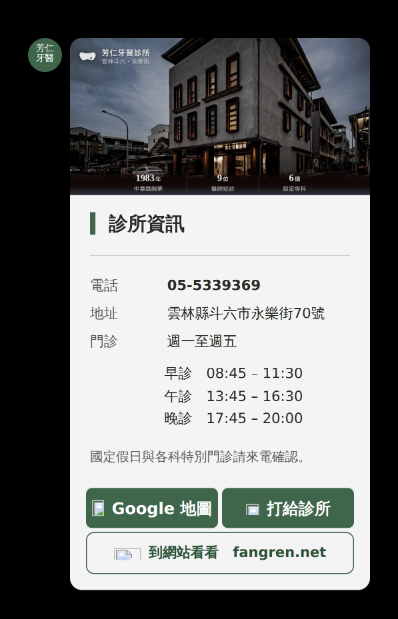
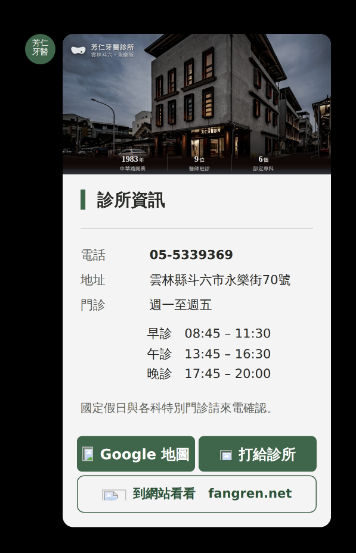
整合頁：行政那兩張拿掉，並修掉 width:auto 讓五張圖畫成原始像素尺寸
使用者：「預約協議 掛號文件費用 拿掉／另外有幾則我用手機打開來看
顯示比例怪怪的 很巨大」。

・width:auto 會蓋掉 <img> 的 width 屬性，圖退回原始像素尺寸 ——
  shot-query 855 → 2565、shot-cancel-chat 402 → 1206（3× 拍的整整大三倍）。
  壞的不只新加的那三張，前一天就在頁上的兩張也一起壞了。
  每一道既有的守門都過（屬性寫對、對得上實檔、水平溢出 0），
  只有把 getBoundingClientRect().width 印出來才看得到。
・修法：.pv-scroll img 只留 max-width:none，捲軸裡每一張各自寫 inline
  style="width:NNNpx"。守門新增兩道，負向測過都擋得下來。
・順手把那三張的卡片從 300px 縮到 268px（oa-shots.mjs 的 CARD = 268/300）
  —— flex-preview 畫的是 mega bubble 300，整合頁其餘十四張都是 268。
・行政那兩張拿掉；admin-carousel-d.json 與它的預覽都留著沒刪。

八個寬度：17 張圖全部畫在自己宣告的尺寸上、水平溢出 0、JS 錯 0。

Claude-Session: https://claude.ai/code/session_01B6APrgGivrFrWH65LPmYi6

diff --git a/preview/line-spec/index.html b/preview/line-spec/index.html
@@ -20,6 +20,8 @@
        這一頁從「整包規格」變成「**模擬圖的總覽 ＋ 入口**」。
      ⚠ 只留下兩處一行的提醒（⑦ 先不要送、⑤ 日期正在被截斷）：
        那兩件是**現在就會出事**的，不是解說。
+     ⚠ 2026-09-07 稍晚：**行政那兩張（預約協議／掛號與文件費用）使用者指定拿掉**，
+       所以 ⑪ 只剩衛教那一條輪播。`drafts/line-oa/admin-carousel-d.json` 與它的預覽都留著沒刪。
 
   ⚠⚠ **這一頁不重抄任何一則的文字。**
      每一則的字有它自己的出處（Flex 的 JSON、或 auto-reply.txt），
@@ -28,7 +30,7 @@
      ⚠ 圖是那幾頁的產出檔，**那幾頁改了就要重跑各自的 *-png.mjs**，不然這一頁的圖會開始說謊。
 
   ⚠ 圖一律寫 width/height 屬性（不寫的話沒載完之前高度是 0，整頁會跳版），
-     第一張以外一律 loading="lazy" —— 全部加起來約 4.6MB，而 Worker 對 /preview/* 設 no-store。
+     第一張以外一律 loading="lazy" —— 全部加起來約 3.5MB，而 Worker 對 /preview/* 設 no-store。
   ⚠ class 一律 pv- 前綴；樣式放在 head。
   ⚠ 連結一律相對路徑（../line-welcome/ 這種），不要用根目錄絕對路徑 ——
      舊站 yclee86.github.io 還活著，那邊會壞（CLAUDE.md 第九節）。
@@ -72,10 +74,16 @@ code{font-size:.94em;background:var(--paper);border-radius:4px;padding:0 3px;
   border-radius:9px;box-shadow:0 1px 3px rgba(0,0,0,.12)}
 .pv-shot img.narrow{width:204px}
 .pv-shot img.plain{box-shadow:none;border-radius:0}
-/* 比卡片寬的（輪播、七科攤成格狀那幾張）自己一條捲軸，
-   不要讓整頁能左右拉。寬度交給 img 的 width 屬性，這裡只把 CSS 的寬度讓開。 */
+/* 比卡片寬的（輪播、七科攤成格狀那幾張）自己一條捲軸，不要讓整頁能左右拉。
+   ⚠⚠⚠ 這裡**每一張都要自己寫 inline 的 `width:NNNpx`**，
+   而且要等於它的 `width` 屬性 —— 2026-09-07 踩過：原本寫 `width:auto`，
+   而 **`width:auto` 會蓋掉 `<img>` 的 width 屬性、讓圖退回「原始像素尺寸」**，
+   3× 拍的那幾張因此畫成三倍大（`shot-query` 855 → 2565）。
+   症狀是「手機上有幾張特別巨大」，**版面沒有破、水平溢出仍然是 0**，
+   只有把每一張的 `getBoundingClientRect().width` 印出來才看得到。
+   `check-spec.mjs` 現在有兩道在守這件事。 */
 .pv-scroll{width:100%;overflow-x:auto;-webkit-overflow-scrolling:touch}
-.pv-scroll img{width:auto;max-width:none}
+.pv-scroll img{max-width:none}
 .pv-cap{font-size:.7rem;color:var(--ink-soft);line-height:1.7;margin:0}
 .pv-cap b{color:var(--ink)}
 .pv-cap .n{color:var(--red);font-weight:700}
@@ -114,7 +122,7 @@ code{font-size:.94em;background:var(--paper);border-radius:4px;padding:0 3px;
     <div class="sep">圖文選單點下去回的卡</div>
     <a href="#m9">⑨ 診所資訊</a>
     <a href="#m10">⑩ 主題與科別　<span class="n">七科輪播</span></a>
-    <a href="#m11">⑪ 衛教懶人包　<span class="n">十張 ＋ 行政兩張</span></a>
+    <a href="#m11">⑪ 衛教懶人包　<span class="n">十張 ＋ 收尾一格</span></a>
   </div>
 
   <!-- ================= ① 招呼圖卡 ================= -->
@@ -161,7 +169,7 @@ code{font-size:.94em;background:var(--paper);border-radius:4px;padding:0 3px;
       alt="預約成功通知（單張）">
     <p class="pv-cap">↑ 預約成功（約診成立的當下，單張）。</p>
     <div class="pv-scroll">
-      <img src="../line-booked/shot-query.png" width="855" height="122" loading="lazy"
+      <img src="../line-booked/shot-query.png" width="855" height="122" style="width:855px" loading="lazy"
         alt="約診紀錄查詢的輪播，三張卡並排">
     </div>
     <p class="pv-cap">↑ 約診紀錄查詢（<b>輪播</b>，一個約診一張，可以左右滑）。
@@ -190,7 +198,7 @@ code{font-size:.94em;background:var(--paper);border-radius:4px;padding:0 3px;
   </div>
   <div class="pv-shot">
     <div class="pv-scroll">
-      <img src="../line-cancel/shot-cancel-chat.png" width="402" height="591" loading="lazy"
+      <img src="../line-cancel/shot-cancel-chat.png" width="402" height="591" style="width:402px" loading="lazy"
         alt="取消那一段對話在 LINE 聊天室裡的樣子">
     </div>
     <p class="pv-cap">↑ 整段對話在聊天室裡的樣子。</p>
@@ -228,7 +236,7 @@ code{font-size:.94em;background:var(--paper);border-radius:4px;padding:0 3px;
     <span class="t">圖文選單第一格</span></h2>
   <div class="pv-shot">
     <div class="pv-scroll">
-      <img src="shot-oa-clinic.png" class="plain" width="398" height="619" loading="lazy"
+      <img src="shot-oa-clinic.png" class="plain" width="356" height="553" style="width:356px" loading="lazy"
         alt="診所資訊卡：診所夜景頭圖、電話地址門診時間，以及三顆按鈕">
     </div>
     <p class="pv-cap">↑ 電話、地址、門診時間 ＋ 三顆按鈕（Google 地圖／打給診所／到網站看看）。
@@ -240,7 +248,7 @@ code{font-size:.94em;background:var(--paper);border-radius:4px;padding:0 3px;
     <span class="t">圖文選單「診療項目」那一格　七科輪播</span></h2>
   <div class="pv-shot">
     <div class="pv-scroll">
-      <img src="shot-oa-topics.png" class="plain" width="1496" height="1387" loading="lazy"
+      <img src="shot-oa-topics.png" class="plain" width="1336" height="1239" style="width:1336px" loading="lazy"
         alt="七科的介紹圖卡：一般牙科、牙周、顯微根管、兒童牙科、齒顎矯正、植牙假牙重建、口腔外科">
     </div>
     <p class="pv-cap">↑ 一科一格，在 LINE 上是<b>橫著滑的輪播</b>；這裡攤成格狀是為了一次看完七科。
@@ -253,21 +261,13 @@ code{font-size:.94em;background:var(--paper);border-radius:4px;padding:0 3px;
     <span class="t">圖文選單「衛教資訊」那一格　十張 ＋ 收尾一格</span></h2>
   <div class="pv-shot">
     <div class="pv-scroll">
-      <img src="shot-oa-health.png" class="plain" width="1496" height="1345" loading="lazy"
+      <img src="shot-oa-health.png" class="plain" width="1336" height="1202" style="width:1336px" loading="lazy"
         alt="衛教懶人包的十一格圖卡：牙周、牙結石、蛀牙、智齒、隱形矯正、假牙、植牙、活動假牙、美白、輻射，以及收尾那一格">
     </div>
     <p class="pv-cap">↑ 診所自己的紙本懶人包，一張一格；兩顆按鈕：「看大圖」開原圖、「讀文章」到站上那一篇。
       最後一格收尾到官網。<span class="n">⚠ 懶人包的圖檔還沒上線</span>，
       JSON 裡寫的是未來的網址。⚠ 這一條可以左右滑。</p>
   </div>
-  <div class="pv-shot">
-    <div class="pv-scroll">
-      <img src="shot-oa-admin.png" class="plain" width="812" height="406" loading="lazy"
-        alt="行政那兩張圖卡：預約協議、掛號與文件費用">
-    </div>
-    <p class="pv-cap">↑ 行政那兩張<b>另外一組</b>（預約協議、掛號與文件費用），沒有和衛教混在同一條輪播裡。</p>
-  </div>
-
 </div>
 </body>
 </html>

diff --git a/CLAUDE.md b/CLAUDE.md
@@ -2359,7 +2359,7 @@ topics/<spec>/         ← 產出。**不要手改**，重跑就沒了
 
 | | |
 | --- | --- |
-| **⭐ 整包給廠商的那一頁** | ✅ **2026-09-05 做好了**（使用者：「診所官方 line 需要的素材和頁面都處理完了　統整成給廠商的網頁給我看」）＝ 第十一之七節第 3 項那個「最後一步」。規格頁 **`/preview/line-spec/`**，守門 **`node drafts/channels/check-spec.mjs`**。⚠⚠ **它不重抄任何一則的文字** —— 七則的字各有出處（六份 Flex JSON ＋ `auto-reply.txt`）且各自有守門，再抄一份就是第八個真相。頁上只放三種東西：**事實**（什麼時候送／送給誰／**誰送**／型別／變數）、**成品**（那七頁自己拍的 13 張 PNG，不是用 CSS 再畫一次）、**出路**（連回各自的規格頁）。⚠ 「誰送」是全頁最重要的一欄：**招呼圖卡與自動回應診所後台自己就設得完**，其餘五則是廠商在送 —— 這件事以前散在各頁，攤在同一張表上才看得出「有兩則根本不必等人」。⚠⚠⚠ **這一頁真正的貢獻是把 24 題排成一個順序**（照「答不出來會擋住什麼」）：**Ａ 最急 3 題**（評價卡可能是 review gating／`maxLines:1` 把日期截掉 ＝ 唯一正在出錯的／「到底會自動送出哪幾則」＝ 盤點漏過兩次）、**Ｂ 送得出什麼 5 題**（會改變成品長相）、**Ｃ 版型與資料 9 題**、**Ｄ 會出事的 4 題**、**Ｅ 診所自己在後台按一次就有答案的 3 題**（⚠ 刻意分出來，混在廠商清單裡等於把自己按一下就知道的事外包出去）。⚠⚠ 同一輪補掉**兩個會讓整包不能用的缺口**：① `welcome-card.json` 從第一版就引用 `hero-welcome.jpg`，**而沒有任何腳本產它**，且產生器出的是 **1040×520、超過 LINE 的 1024 上限** → 新增 `node drafts/channels/welcome-hero-resize.mjs`（**不動 `line-hello/generate.mjs` 的 W／H** —— 那一支裡對話框、尾巴、驚嘆號的位置全是在 1040 座標裡量的定案值，這一支只做最後一次等比例縮小 98.4615%；⚠⚠⚠ **守門的地標不可以用亮度**，底下是實景照、暗處亮處鋪滿整張，外框會回 0~1 ＝ 永遠會通過的守門，改抓對話框那條深綠 `#2C5238`）；② **JSON 裡 21 個 `url` 全指向 `https://fangren.net/assets/line/`，而那個資料夾根本不存在** → 新增 `node drafts/channels/publish-assets.mjs`（**清單的唯一出處是那七份 JSON**，不在腳本裡再手寫一份；三道守門：引用的檔都找得到／都 ≤1024×1024／沒有孤兒檔）。實測 **21 個檔、0.78MB，已經放進 `assets/line/` 並會跟著上線**（`assets` 在 `dist.mjs` 的 ALWAYS 裡，**不必改 dist.mjs**）。⚠ 招呼卡的圖片檔同時從 `drafts/channels/welcome-card{,-chat}.png` 搬到 `preview/line-welcome/shot-welcome{,-chat}.png`（19-19 那句「日後要招呼卡也上網就把 OUT 改到 preview 底下」就是這一天）—— **`drafts/` 進不了 `_site`**，整合頁引用不到。⚠⚠ 守門踩到這條線的老坑：**紅線掃描被「兩條紅線」那一節自己引用的禁語擋下來**（「不可以出現『有問題隨時問』那一類的承諾」），修法是掃到 `id="red"` 為止 —— **通則：這條線每一份檔案都把說明寫在資料裡面，掃字一定會撞到自己的說明**（check-cancel 掃 emoji 撞到 `_說明` 的 ⚠、check-review 改壞測試改到 `_說明` 裡的引文，同一件事）。負向測過五種（改 width／改表上尺寸／改「共 N 個檔」那一句／加 `<button>`／刪一個 assets 檔）**都擋得下來**。⚠ **這一頁刻意零 JS**（守門連 `<script>` 都擋）——交給廠商的東西沒有理由需要跑腳本。量到八個寬度（430／393／390／375／360／320／834／1440）水平溢出 **0**、13 張圖都載得到且都寫了尺寸、死錨點 **0**；輪播那張 855px **自己一條 `overflow-x:auto`**，表格同理；**第一張以外一律 `loading="lazy"`**（全部約 2.4MB，而 Worker 對 `/preview/*` 設 `no-store`）。⚠ 舊的 `/preview/line-reply/` **內容已落後，整合頁刻意沒有連它**。推導在 `drafts/channels/README.md` 第二十六節。⚠⚠⚠ **2026-09-07 整頁改寫成「只留模擬圖」**（使用者：「廠商對接窗口也是**專業的 line 設計工程師**，所以**只要保留模擬圖的部分就好**，附帶標題文字或是哪一個介面的簡單說明，**目前大量的文字解說都不用**。另外之前做的**衛教懶人包圖卡、主題與科別介紹圖卡、診所資訊**都放進來。」）——拿掉的是總表、每一則的事實列、檔案清單、Flex 的硬條件、圖檔清單、24 題、兩條紅線（42.7KB → **15.6KB**）；⚠⚠ **一個字都沒有消失**，那些東西本來就各自住在那一則自己的規格頁裡，每一個標題底下都連著 ——這一頁從「整包規格」變成「**模擬圖的總覽 ＋ 入口**」。⚠⚠⚠ **只留下兩處一行的提醒是刻意的**：⑦ 評價邀約「先不要送」、⑤ 約診查詢「日期正在被截斷」——那兩件**現在就會出事**，不是解說。**通則：使用者說「不要解說」的時候，要分得出哪幾句不是解說是警報。**⚠⚠⚠ 補進來的三組卡**不在 `main` 上，而且它們的分支和 `main` 沒有共同祖先**（`git merge-base` 回空的）—— 住在 `origin/claude/line-merchant-message-input-p1w3r0` 的 **`drafts/line-oa/`**，所以是 `git checkout <分支> -- drafts/line-oa` **把檔案取過來，不能 merge**。⚠⚠ **`grep` 找不到使用者說的東西時，先 `git log --all --grep`** —— 這一輪 grep「懶人包」回空的，`git log --all --grep=懶人包` 一下就指到那條分支。⚠⚠ 取過來要先對三件：**定案的是案 D 不是案 E**（`preview-health-carousel-e.png` 上還印著 09-02 就改掉的七句，擺上去就是說謊）、**電話是作廢的 `(05)5339-369`**（08-27 已全站統一成 `05-5339369`，那張卡剛好卡在換法那一天 ——**通則：從別條線取回來的東西，要拿站上「現在」的定案逐項對一次**）、**收尾那格的篇數 11 → 13**（重跑產生器才會對）。⚠ 圖由新增的 `node drafts/channels/oa-shots.mjs` **只搬不畫**（`drafts/` 進不了 `_site`），等比例縮回它自己的 CSS px（carousel 是 DPR 2、診所資訊是 DPR 3），四張 4.75MB → **2.17MB**。⚠ `.pv-scroll img` 從寫死 855px 改成 `width:auto;max-width:none`（四張各有各的寬），**基底那條 `.pv-shot img{width:268px}` 會贏過屬性，非把 `width:auto` 寫回來不可**。⚠ 守門跟著縮：拿掉圖檔清單那一道（表不在頁上了，`publish-assets.mjs --check` 在做同一件事）、**倍率從常數 3 改成 `scaleOf(src)`**（`shot-oa-*.png` 是 1×，寫死 3 的話那四張全部誤報）、圖 13 → **18** 張。負向測過六種都擋得下來。量到八個寬度水平溢出 0、18 張圖全載得到、JS 錯 0。推導在第二十八節 |
+| **⭐ 整包給廠商的那一頁** | ✅ **2026-09-05 做好了**（使用者：「診所官方 line 需要的素材和頁面都處理完了　統整成給廠商的網頁給我看」）＝ 第十一之七節第 3 項那個「最後一步」。規格頁 **`/preview/line-spec/`**，守門 **`node drafts/channels/check-spec.mjs`**。⚠⚠ **它不重抄任何一則的文字** —— 七則的字各有出處（六份 Flex JSON ＋ `auto-reply.txt`）且各自有守門，再抄一份就是第八個真相。頁上只放三種東西：**事實**（什麼時候送／送給誰／**誰送**／型別／變數）、**成品**（那七頁自己拍的 13 張 PNG，不是用 CSS 再畫一次）、**出路**（連回各自的規格頁）。⚠ 「誰送」是全頁最重要的一欄：**招呼圖卡與自動回應診所後台自己就設得完**，其餘五則是廠商在送 —— 這件事以前散在各頁，攤在同一張表上才看得出「有兩則根本不必等人」。⚠⚠⚠ **這一頁真正的貢獻是把 24 題排成一個順序**（照「答不出來會擋住什麼」）：**Ａ 最急 3 題**（評價卡可能是 review gating／`maxLines:1` 把日期截掉 ＝ 唯一正在出錯的／「到底會自動送出哪幾則」＝ 盤點漏過兩次）、**Ｂ 送得出什麼 5 題**（會改變成品長相）、**Ｃ 版型與資料 9 題**、**Ｄ 會出事的 4 題**、**Ｅ 診所自己在後台按一次就有答案的 3 題**（⚠ 刻意分出來，混在廠商清單裡等於把自己按一下就知道的事外包出去）。⚠⚠ 同一輪補掉**兩個會讓整包不能用的缺口**：① `welcome-card.json` 從第一版就引用 `hero-welcome.jpg`，**而沒有任何腳本產它**，且產生器出的是 **1040×520、超過 LINE 的 1024 上限** → 新增 `node drafts/channels/welcome-hero-resize.mjs`（**不動 `line-hello/generate.mjs` 的 W／H** —— 那一支裡對話框、尾巴、驚嘆號的位置全是在 1040 座標裡量的定案值，這一支只做最後一次等比例縮小 98.4615%；⚠⚠⚠ **守門的地標不可以用亮度**，底下是實景照、暗處亮處鋪滿整張，外框會回 0~1 ＝ 永遠會通過的守門，改抓對話框那條深綠 `#2C5238`）；② **JSON 裡 21 個 `url` 全指向 `https://fangren.net/assets/line/`，而那個資料夾根本不存在** → 新增 `node drafts/channels/publish-assets.mjs`（**清單的唯一出處是那七份 JSON**，不在腳本裡再手寫一份；三道守門：引用的檔都找得到／都 ≤1024×1024／沒有孤兒檔）。實測 **21 個檔、0.78MB，已經放進 `assets/line/` 並會跟著上線**（`assets` 在 `dist.mjs` 的 ALWAYS 裡，**不必改 dist.mjs**）。⚠ 招呼卡的圖片檔同時從 `drafts/channels/welcome-card{,-chat}.png` 搬到 `preview/line-welcome/shot-welcome{,-chat}.png`（19-19 那句「日後要招呼卡也上網就把 OUT 改到 preview 底下」就是這一天）—— **`drafts/` 進不了 `_site`**，整合頁引用不到。⚠⚠ 守門踩到這條線的老坑：**紅線掃描被「兩條紅線」那一節自己引用的禁語擋下來**（「不可以出現『有問題隨時問』那一類的承諾」），修法是掃到 `id="red"` 為止 —— **通則：這條線每一份檔案都把說明寫在資料裡面，掃字一定會撞到自己的說明**（check-cancel 掃 emoji 撞到 `_說明` 的 ⚠、check-review 改壞測試改到 `_說明` 裡的引文，同一件事）。負向測過五種（改 width／改表上尺寸／改「共 N 個檔」那一句／加 `<button>`／刪一個 assets 檔）**都擋得下來**。⚠ **這一頁刻意零 JS**（守門連 `<script>` 都擋）——交給廠商的東西沒有理由需要跑腳本。量到八個寬度（430／393／390／375／360／320／834／1440）水平溢出 **0**、13 張圖都載得到且都寫了尺寸、死錨點 **0**；輪播那張 855px **自己一條 `overflow-x:auto`**，表格同理；**第一張以外一律 `loading="lazy"`**（全部約 2.4MB，而 Worker 對 `/preview/*` 設 `no-store`）。⚠ 舊的 `/preview/line-reply/` **內容已落後，整合頁刻意沒有連它**。推導在 `drafts/channels/README.md` 第二十六節。⚠⚠⚠ **2026-09-07 整頁改寫成「只留模擬圖」**（使用者：「廠商對接窗口也是**專業的 line 設計工程師**，所以**只要保留模擬圖的部分就好**，附帶標題文字或是哪一個介面的簡單說明，**目前大量的文字解說都不用**。另外之前做的**衛教懶人包圖卡、主題與科別介紹圖卡、診所資訊**都放進來。」）——拿掉的是總表、每一則的事實列、檔案清單、Flex 的硬條件、圖檔清單、24 題、兩條紅線（42.7KB → **15.6KB**）；⚠⚠ **一個字都沒有消失**，那些東西本來就各自住在那一則自己的規格頁裡，每一個標題底下都連著 ——這一頁從「整包規格」變成「**模擬圖的總覽 ＋ 入口**」。⚠⚠⚠ **只留下兩處一行的提醒是刻意的**：⑦ 評價邀約「先不要送」、⑤ 約診查詢「日期正在被截斷」——那兩件**現在就會出事**，不是解說。**通則：使用者說「不要解說」的時候，要分得出哪幾句不是解說是警報。**⚠⚠⚠ 補進來的三組卡**不在 `main` 上，而且它們的分支和 `main` 沒有共同祖先**（`git merge-base` 回空的）—— 住在 `origin/claude/line-merchant-message-input-p1w3r0` 的 **`drafts/line-oa/`**，所以是 `git checkout <分支> -- drafts/line-oa` **把檔案取過來，不能 merge**。⚠⚠ **`grep` 找不到使用者說的東西時，先 `git log --all --grep`** —— 這一輪 grep「懶人包」回空的，`git log --all --grep=懶人包` 一下就指到那條分支。⚠⚠ 取過來要先對三件：**定案的是案 D 不是案 E**（`preview-health-carousel-e.png` 上還印著 09-02 就改掉的七句，擺上去就是說謊）、**電話是作廢的 `(05)5339-369`**（08-27 已全站統一成 `05-5339369`，那張卡剛好卡在換法那一天 ——**通則：從別條線取回來的東西，要拿站上「現在」的定案逐項對一次**）、**收尾那格的篇數 11 → 13**（重跑產生器才會對）。⚠ 圖由新增的 `node drafts/channels/oa-shots.mjs` **只搬不畫**（`drafts/` 進不了 `_site`），等比例縮回它自己的 CSS px（carousel 是 DPR 2、診所資訊是 DPR 3），四張 4.75MB → **2.17MB**。⚠ `.pv-scroll img` 從寫死 855px 改成 `width:auto;max-width:none`（四張各有各的寬），**基底那條 `.pv-shot img{width:268px}` 會贏過屬性，非把 `width:auto` 寫回來不可**。⚠ 守門跟著縮：拿掉圖檔清單那一道（表不在頁上了，`publish-assets.mjs --check` 在做同一件事）、**倍率從常數 3 改成 `scaleOf(src)`**（`shot-oa-*.png` 是 1×，寫死 3 的話那四張全部誤報）、圖 13 → **18** 張。負向測過六種都擋得下來。⚠⚠⚠ **2026-09-07 稍晚：使用者「有幾則我用手機打開來看　顯示比例怪怪的　很巨大」——`.pv-scroll img{width:auto}` 把捲軸裡的圖畫成原始像素尺寸**（`shot-query` 855 → **2565**、`shot-cancel-chat` 402 → **1206**，那八則自己拍的是 3× 所以整整大三倍；**壞的不只新加的那幾張，前一天就在頁上的兩張也一起壞了**）。⚠⚠ **每一道既有的守門都過**：width/height 屬性寫得好好的、和實檔 ÷ 倍率也對得上、**水平溢出仍然是 0**（它在 `overflow-x:auto` 裡）、八個寬度全綠 ——**只有把「畫出來多寬」（`getBoundingClientRect().width`）印出來才看得到**。**通則：`<img>` 的 `width` 屬性只是預設值，任何一條 CSS 的 `width` 都贏過它 ——「屬性寫對」不等於「畫出來是那個大小」，量測要量 rect 不要量屬性。**修法：`.pv-scroll img` 只留 `max-width:none`，**捲軸裡每一張各自寫 inline `style="width:NNNpx"`**（和它的 width 屬性同一個數字）；守門新增兩道（沒寫或對不上就 throw、樣式表再出現 `width:auto` 就 throw），負向測過都擋得下來。⚠ 同一輪把那三張的**卡片從 300px 縮到 268px**（`oa-shots.mjs` 的 `CARD = 268/300`）——`flex-preview.mjs` 畫的是 mega bubble 300，而整合頁其餘十四張都是病人手機上量到的 268，不縮的話那三張大 12%、讀起來也是「特別大」。⚠⚠ **行政那兩張（預約協議／掛號與文件費用）使用者指定拿掉**，⑪ 只剩衛教那一條輪播；**`drafts/line-oa/admin-carousel-d.json` 與它的預覽都留著沒刪**（拿掉的是「這一頁要不要給廠商看」）。量到八個寬度水平溢出 0、**17 張圖全部畫在它自己宣告的尺寸上**、JS 錯 0。推導在第二十八節 |
 | **總檔案** | **[`drafts/channels/README.md`](drafts/channels/README.md)** —— 後台的實際數字、管道地圖、「LINE 上該有哪幾則訊息」的全盤盤點與評分、五個外部參考（早安美芝城／天仁茗茶／星宇航空／HERMES／國泰世華・玉山）、提醒卡改版、滿意度調查卡的風險。**開工前先讀它的第十四、十六節** |
 | **自動回應** | ✅ **2026-09-05 定稿**（使用者：「Ok 就這樣定稿 存下來喔」）：**純文字 ＋ 一則通用（後台的「一律回應」）＋ 改約那一段跟已定稿的「綁定完成」逐字一致**。⚠⚠ **成品是一段純文字、不是 Flex JSON**（四則裡唯一）：`drafts/channels/auto-reply.txt` 是**唯一的出處**，守門 `node drafts/channels/check-auto-reply.mjs` 拿它去對規格頁的**兩個地方**（「要貼進後台的字」那一塊、聊天室裡真的送出的那一則），**三邊逐字**才算數。規格頁 `/preview/line-auto-reply/`（**切換條已拿掉**，五把尺收成寫死的預設值，⚠ **網址參數仍然吃得到**：`?n=now` 現況／`?c=card` 圖卡／`?g=rand` 三張隨機），圖三張 `node drafts/channels/auto-reply-png.mjs`（加 `--chat`／`--old`）。⚠⚠ **定案的理由不在版面**：這一則留在後台，**字就留在診所自己手上**；交廠商才有 Flex 圖卡與三張隨機，但**改一個錯字都要找廠商**。⚠⚠⚠ **這一輪修掉一件「量測壞掉但畫面正常」**：泡泡的上限本來寫成 `min(268px,74%)`，393 上只給 **252**、360 上只有 **228**，而 **LINE 的泡泡不隨螢幕縮放** —— 那幾個寬度上量到的折行與孤字全部偏鬆（上一輪那個「孤字 1 處」的誤報就是這樣來的）。修法照 `line-remind` 那一頁：**窄螢幕讓手機框貼齊頁面兩邊**（`@media (max-width:429px)` 拿掉左右框線與圓角、`margin-inline:-14px`）、**聊天室內距 11→8**、上限寫死 **268**，面板現場算「這個螢幕給得起幾 px」、給不到就標紅並寫出偏鬆幾 px（430／393／390／375／360 **都給得到 268**，**320 只給 231、偏鬆 37px**）。**通則（第三次記）：模擬別人的介面時，凡是那一側寫死的尺寸，我們這邊也要寫死** —— 寫成百分比不報錯、畫面也正常，只有拿數字量才看得出來。⚠⚠ **和 09-02 那一版比，少了一句「各類事情請在開診時間打電話給診所」** —— 所以**電話現在只跟著「改約或取消」出現**。**要不要另外補一句涵蓋其他事情，是還沒問過使用者的一題**，規格頁上寫著，**沒有自己加回去**。⚠ **「兩則的改約寫法不一樣」跟著解掉了**（守門有一道在比對 `bind-done-card.json`，**改一邊會被擋下來**）；⚠ 但**招呼圖卡的「看診前2天」與提醒卡的「48 小時」仍是兩種講法**，那是另一件、還開著。⚠ 「一則底下能掛幾個對話框」（3 或 5 兩種說法）**定稿只用一個對話框，所以現在不影響我們**。量測 40 組（五個寬度 × 八種組合）：溢出 **0**・孤字 **0**・JS 錯 **0**、定稿那一則最寬的一行 **204px**、一屏 **34~40%**（430→360），關鍵字命中那一格 **17~20%** ＝ 仍然是一半。以下是走到定稿的過程 —— 提案頁 2026-09-04 開（四把尺：情境／做幾則／放什麼／改約那段），舊的多情境模擬頁 `/preview/line-reply/` 還在（**內容已經落後**：綁定完成與提醒卡都各自定稿過了，那一頁上的是舊版；要不要收掉還沒問使用者）。⚠⚠ **後台的能力這一輪查清楚了三件（第 25-1 節）**：① 一則自動回應底下可以掛**好幾個對話框**、每一個各自選類型，所以**文字和圖可以交替**，不是一則文字配一張圖（⚠ 上限查到 3 或 5 兩種說法，**要在後台按到不能再加為止**）；② 「做幾個版本」有三種，**關鍵字分流**與**時段分流**是準的，**好幾則都不設關鍵字的話 LINE 會隨機挑一則送**（❌ 不要做，同一件事會給兩種答案）；③ ⚠ 這裡的「圖卡」**只能是圖文訊息**（一張圖切格子、字烘在圖裡）—— ⚠⚠⚠ **2026-09-05 更正：我先前寫的「Flex 後台送不出去」是錯的講法**（第 25-11 節）。**LINE 平台完全送得出**（Flex 是 Messaging API 的型別，回覆類不計費），限制在**後台那個編輯介面**的型別下拉沒有 Flex；**這間診所的廠商顯然送得出**（綁定完成／提醒卡／預約成功／評價卡全都是 Flex）。**通則：「做不到」要講清楚是誰做不到** —— 寫成「平台不支援」是死路，寫成「後台那個表單沒有這個欄位」只是「換一個人送」，這一次差點把一條可行的路關掉。⚠⚠⚠ 查更正時挖到更要緊的一件：**後台的「自動回應訊息」開著時會把病人打的字攔下來自己回、不轉給廠商的 webhook**（postback 一律走 webhook，所以按鈕那條沒事、打字那條被攔）——**二手資料，廠商一句話能確認**。**所以真正的決策點是「這一則歸誰」不是「送不送得出」**：留後台＝只有圖文訊息但**診所自己改得了字**；交廠商＝有 Flex、隨機也容易，但**改一個錯字都要找廠商**。✅ **2026-09-05 使用者定案：走純文字**（「那用文字就好了」），理由就是最後那一件 —— **字要留在自己手上**；⚠ **三張隨機因此一併擱下、不是作廢**（純文字沒有圖可以換，哪天交給廠商會一起回來）。⚠ **要問廠商的那一題要換問法**：原本寫「關鍵字回應送不送得出 Flex」**答案一定是後台不行、等於白問**，改成「**打字那一則可以改由你們的系統回 Flex 嗎（後台自動回應要關掉）／能不能三張隨機／日後改字的流程是什麼**」。⚠⚠ **但做得到不等於該做**：這一則**每打一句就送一次**，390 上純文字佔一屏 38%、配圖 65%，而**他再傳一次**就是 75% vs **131%（整個畫面被洗掉）** —— **建議維持純文字**，要用圖就掛在關鍵字上。⚠ 「改約那一段」另開一把尺：09-02 的參和 **09-04 定稿的綁定完成**（使用者自己寫的「最晚…、於診所開診時段來電變更」）**講法不一樣**，要不要統一是他的決定，所以做成尺不直接改。⚠ 分時段那條路的隱藏成本：**時段只認星期＋時間、分不出國定假日**，所以開診那一則只能寫「這個時段診所有開診」，不能寫「現在有人在」。⚠⚠⚠ **2026-09-05 使用者定方向：要圖卡，而且要三張隨機**（原話：「這樣雖然是讓患者在 line 上得不到回應，但至少有有趣的圖片」）——**25-2 那個「建議純文字」他看過數字之後仍然選圖，那是決定，不要再拿洗版的數字回頭勸。**⚠⚠⚠ **同一輪要更正我自己上一輪的一句話**：25-1 把「好幾則不設關鍵字→隨機」列成 ❌ 不要做，理由是「同一件事會給兩種答案」——**那個理由在這個用法下不成立**（三則**文字一字不差、只有圖不同**），**更正：可以做，而且它正好是他要的機制**。**通則：一個做法被否決時，記下的要是「為什麼」不是「不要做」** —— 理由消失了結論就要跟著翻。四條路（第 25-9 節）：**Ⓐ 三則「一律回應」只換圖**（⚠ 要先實測 LINE 到底會不會隨機，兩個二手來源說法**相反**，**五分鐘的後台實測步驟寫在頁面上與 25-9**）／**Ⓑ 三則各設不同時段**（✅ 一定可行，但同一天連傳兩次是同一張）／**Ⓒ 每季換一張**（零風險）／**Ⓓ 請廠商用 API**。**建議先測 Ⓐ，不成立走 Ⓑ**。⚠⚠ Ⓐ 成立要跟著處理兩件：① **三則文字要一字不差、改文案要改三次**，改漏一則病人會隨機拿到舊版**而且不會有人發現**；② **綁定完成那一則會被波及**（廠商把「✅ 09xxx 綁定成功！」改成固定字串之前，綁定那一刻也會隨機吐一張圖）。三張圖的硬條件：**1040×1040 且三張比例一致**（不一致會忽高忽低）、**用 223px 判斷看不看得懂**、格線要對齊版型的格子、**三張要一眼分得出來**（`rich-4`／`rich-4b` 就是反例）、**每一張都要能獨立成立**（他可能只看過其中一張）。⚠ **2026-09-05 提案頁跟著收成純文字**：切換條**五排收成三排**（情境／做幾則／改約那段），**「放什麼」與「圖」兩把尺從切換條上拿掉、網址參數仍然吃得到**（`?c=ti`／`?c=card`／`?g=rand`）——同提醒卡那一輪：**已定案的尺不佔畫面，但要回頭看還開得出來**。量測 800 組：溢出 0・孤字 0・JS 錯 0・**切換條 23.4% → 14.7%**；純文字四格一屏 **38%（一則通用）／24%（分時段）／19%（關鍵字命中）／30%（現況）**——**關鍵字那一格只有一則通用的一半，那是「做幾則」這把尺唯一真正的理由**。以下是走到這裡的過程：提案頁加了第五把尺 `?g=` 與手機框底下的**「＋ 他再傳一次」**（⚠ **隨機一張靜態畫面看不出來**，要連著送才感覺得到；面板報輪數與抽到的順序，**真的隨機就是會連兩次同一張（1/3），沒有做不重複**）。⚠ 三張圖目前用 `rich-2`／`rich-4b`／`rich-4` 當**佔位符**，**不是定案的三張**。量測（五個寬度、**1280 組**）：孤字 0・水平溢出 0・泡泡 ≤268・JS 錯 0・切換條 **23.4%**（⚠ 五排時量到 24.4%、越過那條線，排距 6→**4px** 才收回來）；三張隨機連按四次「再傳一次」在 390 上是 **65% → 131% → 196% → 261%**，序列 `Ⓐ→Ⓑ→Ⓑ→Ⓐ`（**四輪就抽到一次連續重複，那不是 bug**）。⚠⚠⚠ **2026-09-05 稍晚：「圖卡」那一格補上了**（`?c=card`，第 25-10 節）—— 使用者：「我想看我說的圖卡會長什麼樣子，因為你們剛才說自動回覆沒有圖卡的選項」。**他點出我只講了一半**：說了「後台沒這個選項」，卻沒把「如果有會長什麼樣」畫給他看。⚠ 那一格**不是現在做得到的**，是**拿去問廠商的那張圖**（和取消確認、招呼卡同一題）。⚠⚠ **量出來一件會改變建議的事：圖卡比「文字＋圖」還省** —— 只有文字 38%／**圖卡 53%（一個對話框）**／文字＋圖 65%（兩個對話框），傳兩次是 75%／**106%**／131%。**「要圖」走 Flex 的成本反而最低**，因為它是一則不是兩則。廠商說不行才退回「文字＋圖」。⚠⚠⚠ **三張圖的比例取決於走哪一條路，畫之前一定要先定**：圖文訊息 **1040×1040**（方的、切格子、字烘在圖裡）vs Flex 圖卡 **1024×512（2:1）**（只當頭圖、字不烘進去）——**兩條路的圖不能共用**。⚠⚠ 這一輪同一個坑踩第二次：**`<img>` 寫了 height 屬性、CSS 沒補 `height:auto`**，`aspect-ratio` 蓋不過呈現屬性，卡片量成 **841px（一屏 101%）**；以及**卡片寬度寫成 `min(268px,74%)`**，393 上量到 252.3 —— **LINE 的卡片不隨螢幕變**（已定稿那兩頁都寫死 268），在 252 上做的折行判斷全是假的（那一輪誤報的「孤字 1 處」就是這樣來的）。**通則：模擬別人的介面時，凡是那一側寫死的尺寸，我們這邊也要寫死。**量測 800 組：溢出 0・孤字 0・JS 錯 0；圖卡 **268×433.3**、五個寬度逐格相同、字級 16/14/14/13/13px（＝ md/sm/sm/xs/xs）。 |
 | 招呼圖卡 | `drafts/channels/welcome-card.json`（Flex）＋ `README.md` 第十八節 → 規格頁 **`/preview/line-welcome/`**。✅ **2026-09-03 定案** |
@@ -2445,8 +2445,10 @@ node drafts/channels/check-auto-reply.mjs # 自動回應：**純文字不是 Fle
 node drafts/channels/check-review.mjs    # 評價邀約：同上（六段文字逐字＋兩顆按鈕的 action.label／姓名是變數且加粗／字級 6 處／顏色 6 處／頭圖與三張小圖的檔案・長寬比・寬度・≤1024／紅線與 emoji／**不可以拿好處換評價**／切換條已拿掉）
 node drafts/channels/check-typhoon.mjs   # 颱風／臨時休診：同上（三段文字**三邊逐字** —— JSON ↔「要貼進去的字」↔ 畫在卡片上（填示範值後）／四個可填欄位且 {{date}} 兩次／字級 sm 14px／卡底與內文色／段距 8px／頭圖是 **JPEG**（掃 SOF）・2:1・≤1024・**卡片與聊天室同一個檔**／紅線與 emoji／切換條已拿掉）
 node drafts/channels/check-booked.mjs    # 約診卡（兩則）：同上（文字逐字／字級 19-16-13／顏色／浮水印九顆的寬度・長寬比・色逐筆對 wm-sizes.json／27 張 PNG 都在且 ≤1024／日期一定要 wrap 不可以有 maxLines／紅線／切換條已拿掉）
-node drafts/channels/check-spec.mjs      # **整包給廠商的那一頁**：18 張圖的 width/height ＝ 實檔 ÷ 它自己的倍率
+node drafts/channels/check-spec.mjs      # **整包給廠商的那一頁**：17 張圖的 width/height ＝ 實檔 ÷ 它自己的倍率
                                           #   （那八則自己拍的是 3×、shot-oa-* 是 1× —— **倍率不是常數**）、每一張都要有 alt、
+                                          #   ⚠⚠ **捲軸裡那五張要各自寫 inline width:NNNpx**（＝它的 width 屬性），
+                                          #      而且樣式表不准出現 .pv-scroll img{width:auto} —— 那會讓圖退回原始像素尺寸
                                           #   八則的「完整規格」連結與錨點都通、紅線、切換條與 <script> 都不准出現
                                           #   ⚠ 圖檔清單那一道 2026-09-07 拿掉了（表不在頁上了）→ publish-assets.mjs --check 在做同一件事
 node drafts/line-hello/check.mjs         # 規格頁引用的圖都在、沒有孤兒檔
@@ -2516,7 +2518,7 @@ node drafts/line-auto-reply/rich.mjs     # 圖文訊息的圖
    ⚠ 另外兩件要**在後台自己按一次**才算數：**一對一聊天室的「＋」裡有哪幾種型別**
    （有沒有「圖文訊息」）、**群發的「受眾」能不能上傳名單**。
    ⚠ 另外要跟使用者要一張截圖：**按「否」之後**長什麼樣（**取消成功**那一張 2026-09-04 已經拿到了，見第 21-8 節）。
-3. ✅ **整合成一頁給廠商看 —— 2026-09-05 做好了**（使用者 2026-09-04 指定的**最後一步**：「最後和其他的 line 頁面統整做成預覽頁給廠商」；09-05 他說「診所官方 line 需要的素材和頁面都處理完了　統整成給廠商的網頁給我看」）。成品 **`/preview/line-spec/`**，守門 `node drafts/channels/check-spec.mjs`，推導在 `drafts/channels/README.md` 第二十六節。⚠⚠ **那一頁不重抄任何一則的文字**（七則的字各有出處且各自有守門，再抄一份就是第八個真相）——只放事實、**那七頁自己拍的成品 PNG**、以及連回各自的規格頁；細節見第十一之一節那一列。⚠ 它連了八處：`/preview/line-welcome/`／`line-auto-reply/`／`line-bind-done/`／`line-remind/`／`line-booked/`／`line-cancel/`／`line-review/`／`line-typhoon/`。⚠ 舊的多情境模擬頁 **`/preview/line-reply/` 內容已落後**（綁定完成與提醒卡都各自定稿過了，那一頁上的是舊版），**整合頁刻意沒有連它** —— 要不要收掉還沒問使用者，**不要自己刪**。⚠⚠⚠ **2026-09-07 整頁改寫成「只留模擬圖」，並補進圖文選單那三組卡**（⑨ 診所資訊／⑩ 主題與科別七科／⑪ 衛教懶人包十張＋行政兩張）—— 見第十一之一節那一列與第二十八節。⚠ 十一個項目分兩組（**自動送出的訊息** 八則／**圖文選單點下去回的卡** 三組），**那三組不是推播，混在同一排編號裡會讓廠商以為它們也會自動送**。⚠⚠ **衛教懶人包的圖檔還沒上線**（JSON 寫的是未來的網址 `assets/handout-*-hero.jpg`，檔案在 `drafts/line-oa/handouts/`），**而且授權還沒確認**（「侑津製圖」是不是李侑津醫師）—— 頁面上已經標了一行。⚠ 診所資訊那三顆按鈕的圖示 `assets/line-{pin,phone,logo}.png`（合計 8KB）2026-09-07 一起上了，所以 ⑨ 與 ⑩ 的資產都齊了。⚠⚠ **交出去之前還缺的四件**（第 26-6 節）：Ａ 那三題一題都沒有答案（尤其**評價邀約在答案出來之前不要送**）、**評價卡的按鈕網址**還沒有（Google 的深連結要 Place ID，診所手上只有分享短網址）、**綁定完成的觸發字串**還含著電話號碼、以及**「病人手機上的卡片實寬」到現在仍然沒有量過**（全線的判斷都建立在 268px 上，而那是從診所端後台的截圖推導的 —— 一張病人手機的截圖就能收掉）
+3. ✅ **整合成一頁給廠商看 —— 2026-09-05 做好了**（使用者 2026-09-04 指定的**最後一步**：「最後和其他的 line 頁面統整做成預覽頁給廠商」；09-05 他說「診所官方 line 需要的素材和頁面都處理完了　統整成給廠商的網頁給我看」）。成品 **`/preview/line-spec/`**，守門 `node drafts/channels/check-spec.mjs`，推導在 `drafts/channels/README.md` 第二十六節。⚠⚠ **那一頁不重抄任何一則的文字**（七則的字各有出處且各自有守門，再抄一份就是第八個真相）——只放事實、**那七頁自己拍的成品 PNG**、以及連回各自的規格頁；細節見第十一之一節那一列。⚠ 它連了八處：`/preview/line-welcome/`／`line-auto-reply/`／`line-bind-done/`／`line-remind/`／`line-booked/`／`line-cancel/`／`line-review/`／`line-typhoon/`。⚠ 舊的多情境模擬頁 **`/preview/line-reply/` 內容已落後**（綁定完成與提醒卡都各自定稿過了，那一頁上的是舊版），**整合頁刻意沒有連它** —— 要不要收掉還沒問使用者，**不要自己刪**。⚠⚠⚠ **2026-09-07 整頁改寫成「只留模擬圖」，並補進圖文選單那三組卡**（⑨ 診所資訊／⑩ 主題與科別七科／⑪ 衛教懶人包十張＋行政兩張）—— 見第十一之一節那一列與第二十八節。⚠ **2026-09-07 稍晚兩件**：行政那兩張（預約協議／掛號與文件費用）**使用者指定拿掉**、以及 `.pv-scroll img{width:auto}` 讓五張圖畫成原始像素尺寸（見第十一之一節那一列）。⚠ 十一個項目分兩組（**自動送出的訊息** 八則／**圖文選單點下去回的卡** 三組），**那三組不是推播，混在同一排編號裡會讓廠商以為它們也會自動送**。⚠⚠ **衛教懶人包的圖檔還沒上線**（JSON 寫的是未來的網址 `assets/handout-*-hero.jpg`，檔案在 `drafts/line-oa/handouts/`），**而且授權還沒確認**（「侑津製圖」是不是李侑津醫師）—— 頁面上已經標了一行。⚠ 診所資訊那三顆按鈕的圖示 `assets/line-{pin,phone,logo}.png`（合計 8KB）2026-09-07 一起上了，所以 ⑨ 與 ⑩ 的資產都齊了。⚠⚠ **交出去之前還缺的四件**（第 26-6 節）：Ａ 那三題一題都沒有答案（尤其**評價邀約在答案出來之前不要送**）、**評價卡的按鈕網址**還沒有（Google 的深連結要 Place ID，診所手上只有分享短網址）、**綁定完成的觸發字串**還含著電話號碼、以及**「病人手機上的卡片實寬」到現在仍然沒有量過**（全線的判斷都建立在 268px 上，而那是從診所端後台的截圖推導的 —— 一張病人手機的截圖就能收掉）
 4. ✅ **圖已經放到 `https://fangren.net/assets/line/` 了**（2026-09-05）——**21 個檔、0.78MB**，由 `node drafts/channels/publish-assets.mjs` 從七份 JSON 自己收出清單再複製過去
    （五張頭圖 `hero-{welcome,bind,remind,review,typhoon}.jpg` 各 1024×512、七顆 logo、九顆浮水印 `wm-<形狀>-12.png`）。
    ⚠ **不必改 `tools/dist.mjs`** —— `assets` 本來就在它的 `ALWAYS` 裡（整個資料夾遞迴複製）。

diff --git a/drafts/channels/README.md b/drafts/channels/README.md
@@ -6326,3 +6326,60 @@ Flex 的硬條件、圖檔清單與網址、24 題要問廠商的、兩條紅線
 3. **主題與科別那七張**吃的是站上的 `og-topic-*.jpg`，本來就在，也齊了。
 4. 第 26-6 節那四件缺口一件都沒有變（Ａ 那三題、評價卡的按鈕網址、
    綁定完成的觸發字串、**病人手機上的卡片實寬到現在仍然沒有量過**）。
+
+### 28-9　⚠⚠⚠ 2026-09-07 稍晚：`width:auto` 把五張圖畫成原始像素尺寸
+
+使用者：「**有幾則我用手機打開來看　顯示比例怪怪的　很巨大**」。
+
+把每一張的 `getBoundingClientRect().width` 印出來就看到了 ——
+**壞的不只是新加的那三張，前一天就在頁上的兩張也一起壞了**：
+
+| 圖 | 該顯示 | 實際顯示 |
+| --- | --- | --- |
+| `shot-query.png` | 855 | **2565**（＝ 原檔像素，3×） |
+| `shot-cancel-chat.png` | 402 | **1206**（3×） |
+| `shot-oa-clinic.png` | 398 | 398 ✓ |
+| `shot-oa-topics.png` | 1496 | 1496 ✓ |
+
+⚠⚠⚠ **成因是 28-5 那一條**：`.pv-scroll img{width:auto}` ——
+**`width:auto` 會蓋掉 `<img>` 的 `width` 屬性**，圖因此退回它的**原始像素尺寸**。
+新加的那四張剛好是 1× 出的（`oa-shots.mjs` 縮過），所以看不出來；
+那八則自己拍的是 **3×**，於是整整大三倍。
+
+⚠⚠ **這個 bug 每一道既有的守門都過**：`width`／`height` 屬性寫得好好的、
+和實檔 ÷ 倍率也對得上、**水平溢出仍然是 0**（它在 `overflow-x:auto` 裡面）、
+八個寬度全綠。**只有把「畫出來多寬」印出來才看得到。**
+**通則：`<img>` 的 `width` 屬性只是預設值，任何一條 CSS 的 `width` 都贏過它 ——
+所以「屬性寫對」不等於「畫出來是那個大小」，量測要量 rect 不要量屬性。**
+
+修法：`.pv-scroll img` 只留 `max-width:none`，**捲軸裡每一張各自寫 inline
+`style="width:NNNpx"`**（和它的 `width` 屬性同一個數字）。
+`check-spec.mjs` 新增兩道：① 捲軸裡的 img 沒寫 inline 寬度、或和屬性對不上就 throw
+② 樣式表再出現 `.pv-scroll img{ … width:auto … }` 就 throw。負向測過都擋得下來。
+
+### 28-10　順手把那三張的卡片縮到 268px
+
+`flex-preview.mjs` 的 mega bubble 畫的是 **300px**，而整合頁上其餘十四張都是
+病人手機上量到的 **268px** —— 不縮的話那三張的卡片比隔壁大 12%，
+在手機上讀起來也是「這幾張特別大」。`oa-shots.mjs` 因此在 DPR 之外
+再乘一個 `CARD = 268/300`：
+
+```
+shot-oa-topics.png   1496×1387 → 1336×1239   1228 → 1136KB
+shot-oa-health.png   1496×1345 → 1336×1202    676 →  674KB
+shot-oa-clinic.png     398×619 →   356×553    152 →  127KB
+```
+
+⚠ 多加一道守門：成品超過 1600px 寬就 throw（再寬那一條捲軸在手機上會變成一整片）。
+
+### 28-11　行政那兩張拿掉了
+
+使用者：「**預約協議　掛號文件費用　拿掉**」。
+⑪ 因此只剩衛教那一條輪播（十張 ＋ 收尾一格），`shot-oa-admin.png` 已刪、
+`oa-shots.mjs` 的 `JOBS` 也拿掉那一筆。
+
+⚠ **`drafts/line-oa/admin-carousel-d.json` 與 `preview-admin-carousel-d.png` 都留著沒刪**
+—— 拿掉的是「這一頁上要不要給廠商看」，不是把那兩張作廢。
+
+⚠ 量到（八個寬度）：**17 張圖全部畫在它自己宣告的尺寸上**、水平溢出 0、JS 錯 0，
+頁高 10635~10800px（原本 12909，少掉的是行政那一張與縮小的兩張）。
